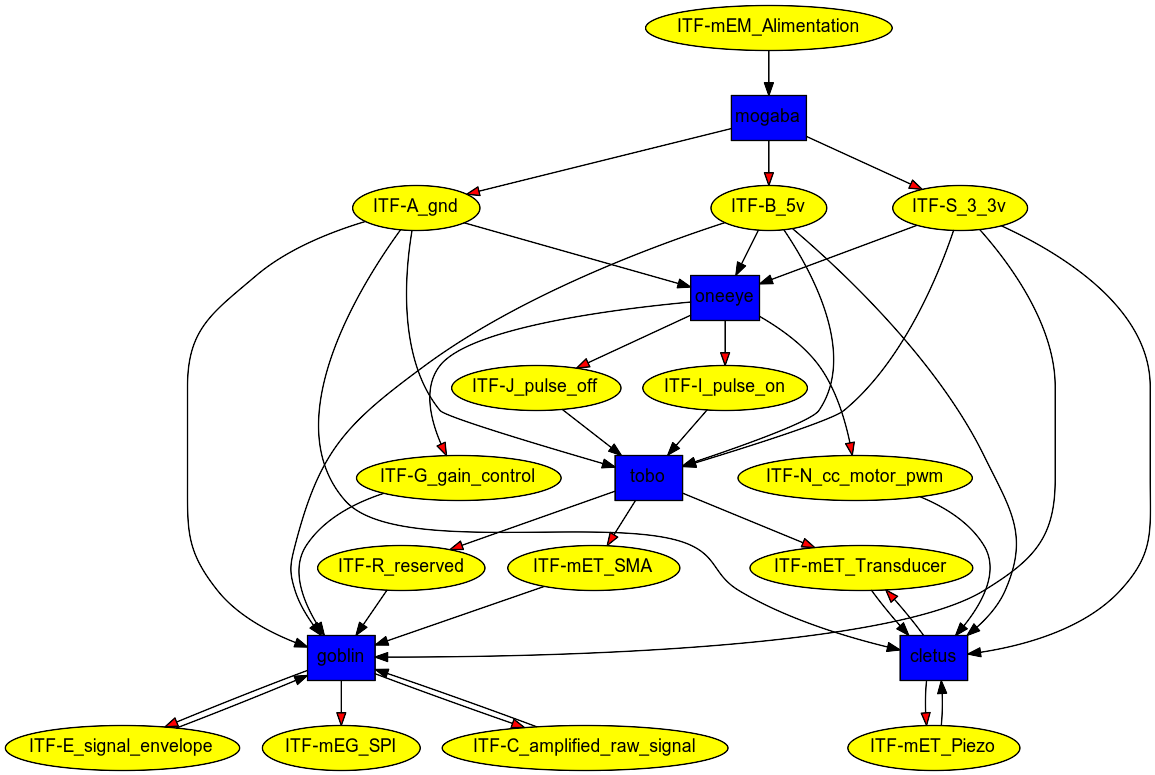
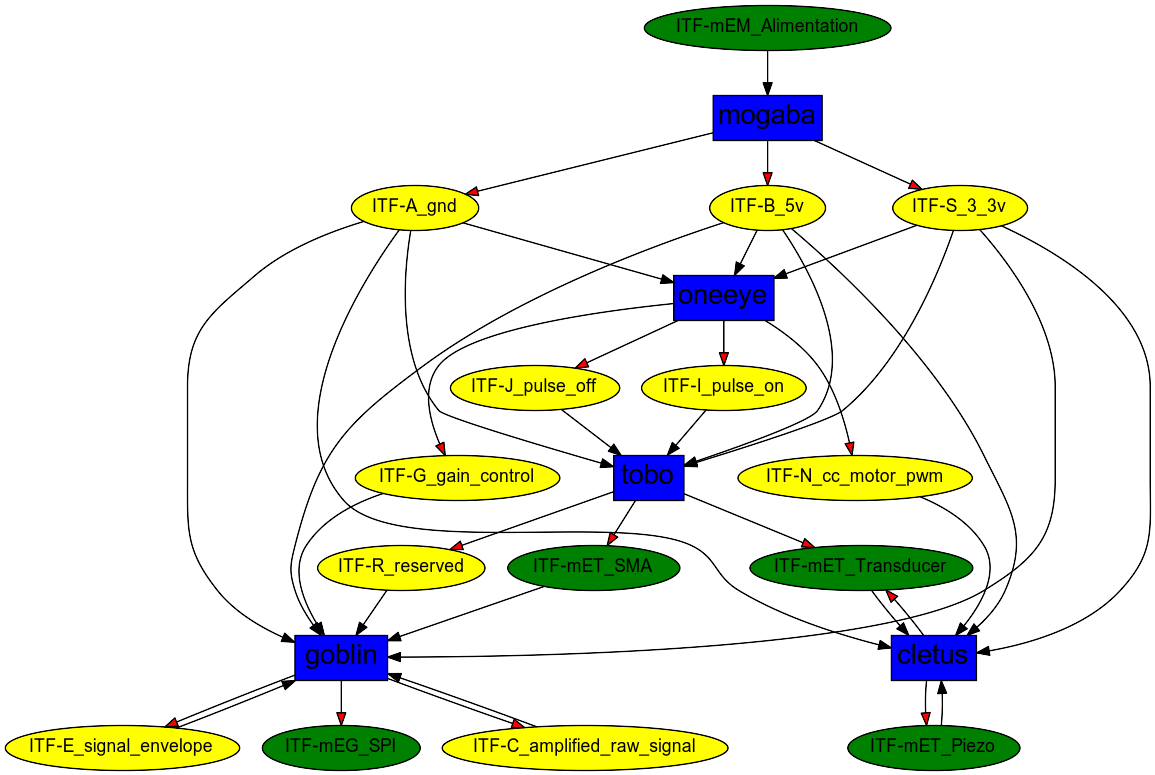
MakeDoc

diff --git a/makedoc.py b/makedoc.py
@@ -45,7 +45,7 @@ ListOfDirs = [x for x in ModulesDirs if x not in ExcludeDirs]
 
 
 for eachInput in ListOfDirs:
-	GraphModules.node(eachInput, style="filled", fillcolor="blue", shape="box")
+	GraphModules.node(eachInput, style="filled", fillcolor="blue", shape="box",fontsize="22")
 
 
 # -------------------------
@@ -84,7 +84,6 @@ for ReadMe in ListOfDirs:
 	Desc = []
 	for item in results:
 	    Desc = map(str, re.findall(patternCode, item, flags=0))
-	    #Desc = " ".join( Desc ) # Only take the first paragraph
 	Desc = Desc[0]
 
 	# Getting the Inputs of the Module
@@ -95,8 +94,10 @@ for ReadMe in ListOfDirs:
 	for item in results:
 	    Inputs = map(str, re.findall(patternCode, item, flags=0))
 	    for eachInput in Inputs:
-		#GraphModules = add_nodes(GraphModules, eachInput)
-		GraphModules.node(eachInput, style="rounded,filled", fillcolor="yellow")
+		if "ITF-m" not in eachInput:
+		    GraphModules.node(eachInput, style="rounded,filled", fillcolor="yellow")
+		else:
+		    GraphModules.node(eachInput, style="rounded,filled", fillcolor="green")		
 		GraphModules.edge(eachInput, ReadMe)
 	inpoots = ", ".join( Inputs )
 	
@@ -110,7 +111,10 @@ for ReadMe in ListOfDirs:
 	for item in results:
 	    Outputs = map(str, re.findall(patternCode, item, flags=0))
 	    for eachOutput in Outputs:
-		GraphModules.node(eachOutput, style="rounded,filled", fillcolor="yellow")
+		if "ITF-m" not in eachOutput:
+		    GraphModules.node(eachOutput, style="rounded,filled", fillcolor="yellow")
+		else:
+		    GraphModules.node(eachOutput, style="rounded,filled", fillcolor="green")
 		GraphModules.edge(ReadMe, eachOutput, style="filled", fillcolor="red")
 	outpoots = ", ".join( Outputs )
 
